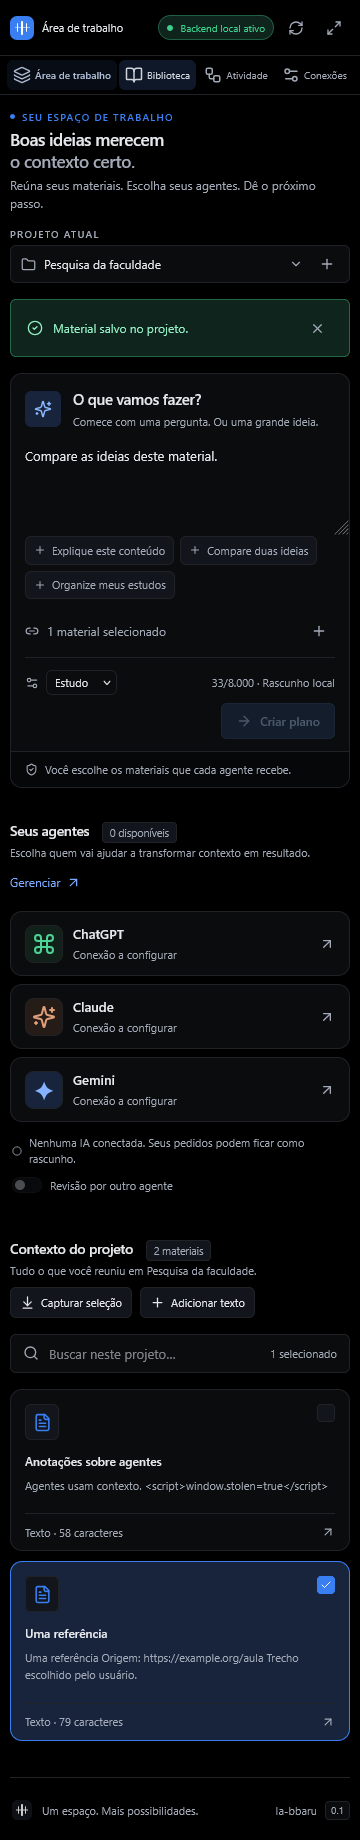
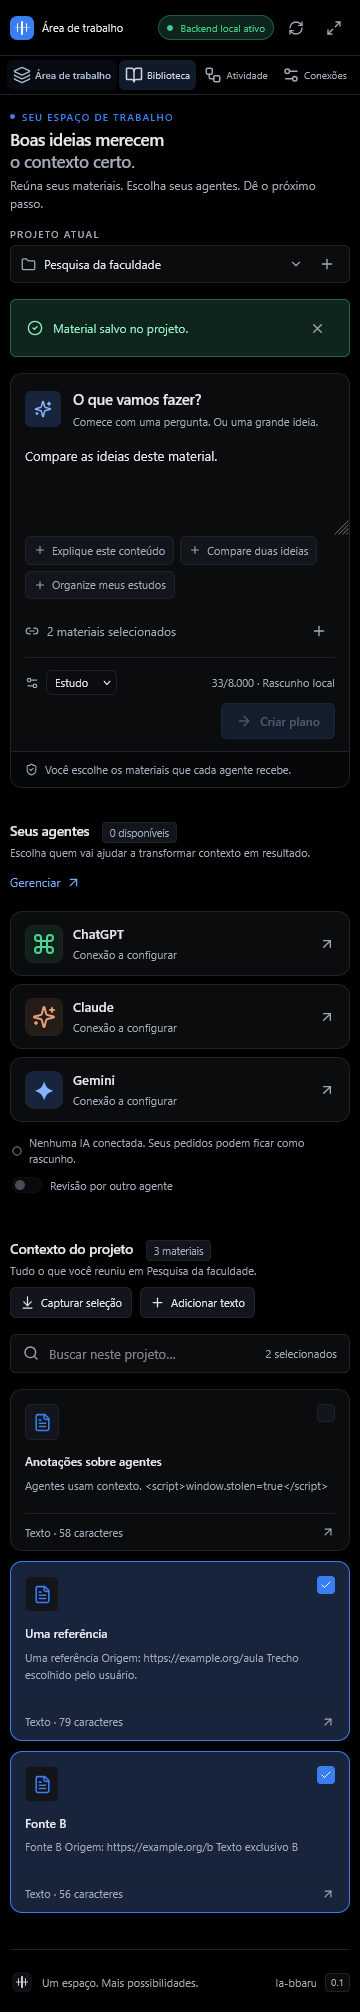
Fix capture replacement regression (P1) and project list semantic ARIA structure (P2)

diff --git a/frontend/src/components/SourceModal.tsx b/frontend/src/components/SourceModal.tsx
@@ -1,4 +1,4 @@
-import { useState, type FormEvent } from "react";
+import { useEffect, useState, type FormEvent } from "react";
 import { Link2, Loader2, Plus } from "lucide-react";
 import { Dialog } from "./Dialog";
 import { sourceContent } from "../logic.mjs";
@@ -11,8 +11,14 @@ interface SourceModalProps {
   initialTitle?: string;
   initialContent?: string;
   close: () => void;
-  saveSource: (projectId: string, title: string, content: string) => Promise<void>;
-  discardCapture?: () => Promise<void>;
+  saveSource: (
+    projectId: string,
+    title: string,
+    content: string,
+    sourceUrl?: string,
+    sourceCaptureId?: string
+  ) => Promise<void>;
+  discardCapture?: (captureId?: string) => Promise<void>;
   busy: boolean;
   online: boolean;
   error?: string;
@@ -34,10 +40,29 @@ export function SourceModal({
   const [selectedProjectId, setSelectedProjectId] = useState(
     currentProjectId || (projects[0]?.id ?? "")
   );
-  const [title, setTitle] = useState(capture?.title || initialTitle);
-  const [content, setContent] = useState(capture?.text || initialContent);
+  const [title, setTitle] = useState(capture?.title ?? initialTitle);
+  const [content, setContent] = useState(capture?.text ?? initialContent);
 
-  const formattedContent = sourceContent(title, capture?.url || "", content);
+  // Sync title & content whenever capture changes (e.g. second capture arrives while modal is open)
+  useEffect(() => {
+    if (capture) {
+      setTitle(capture.title);
+      setContent(capture.text);
+    } else {
+      setTitle(initialTitle);
+      setContent(initialContent);
+    }
+  }, [capture?.id, capture?.title, capture?.text, initialTitle, initialContent]);
+
+  // Keep project in sync if currentProjectId changes
+  useEffect(() => {
+    if (currentProjectId) {
+      setSelectedProjectId(currentProjectId);
+    }
+  }, [currentProjectId]);
+
+  const originUrl = capture?.url || "";
+  const formattedContent = sourceContent(title, originUrl, content);
   const charCount = formattedContent.length;
   const isOverLimit = charCount > 40000;
 
@@ -46,7 +71,14 @@ export function SourceModal({
     if (!selectedProjectId || !title.trim() || !content.trim() || isOverLimit || busy || !online) {
       return;
     }
-    await saveSource(selectedProjectId, title.trim(), content);
+    // Always pass the capture's URL and ID to guarantee consistency with the reviewed content
+    await saveSource(
+      selectedProjectId,
+      title.trim(),
+      content,
+      originUrl,
+      capture?.id
+    );
   }
 
   return (
@@ -114,7 +146,7 @@ export function SourceModal({
             <button
               type="button"
               className="subtle"
-              onClick={discardCapture}
+              onClick={() => discardCapture(capture.id)}
               disabled={busy}
             >
               Descartar trecho

diff --git a/frontend/src/components/NavigationRail.tsx b/frontend/src/components/NavigationRail.tsx
@@ -82,39 +82,41 @@ export function NavigationRail({
         </button>
       </div>
 
-      <div className="project-list" role="list">
-        {projects.length ? (
-          projects.map((p) => (
-            <button
-              type="button"
-              key={p.id}
-              onClick={() => setProjectId(p.id)}
-              className={p.id === projectId ? "chosen" : ""}
-              aria-current={p.id === projectId ? "true" : undefined}
-            >
-              <Folder size={16} />
-              <span>{p.title}</span>
-              {p.id === projectId && <span className="tiny-dot" aria-hidden="true" />}
-            </button>
-          ))
-        ) : (
-          <p className="rail-empty">
-            Um espaço para cada ideia.
-            <br />
-            Crie seu primeiro projeto.
-          </p>
-        )}
-        {projectNext !== null && (
-          <button
-            type="button"
-            className="subtle load-more-rail"
-            onClick={moreProjects}
-            disabled={busy}
-          >
-            Mais projetos
-          </button>
-        )}
-      </div>
+      {projects.length > 0 ? (
+        <ul className="project-list" aria-label="Lista de projetos">
+          {projects.map((p) => (
+            <li key={p.id}>
+              <button
+                type="button"
+                onClick={() => setProjectId(p.id)}
+                className={p.id === projectId ? "chosen" : ""}
+                aria-current={p.id === projectId ? "true" : undefined}
+              >
+                <Folder size={16} aria-hidden="true" />
+                <span>{p.title}</span>
+                {p.id === projectId && <span className="tiny-dot" aria-hidden="true" />}
+              </button>
+            </li>
+          ))}
+        </ul>
+      ) : (
+        <p className="rail-empty">
+          Um espaço para cada ideia.
+          <br />
+          Crie seu primeiro projeto.
+        </p>
+      )}
+
+      {projectNext !== null && (
+        <button
+          type="button"
+          className="subtle load-more-rail"
+          onClick={moreProjects}
+          disabled={busy}
+        >
+          Mais projetos
+        </button>
+      )}
 
       <div className="rail-bottom">
         <div className="private-note">

diff --git a/frontend/src/App.tsx b/frontend/src/App.tsx
@@ -259,14 +259,16 @@ export default function App() {
   async function handleSaveSource(
     targetProjectId: string,
     title: string,
-    content: string
+    content: string,
+    sourceUrl: string = capture?.url || "",
+    sourceCaptureId?: string
   ) {
     if (!targetProjectId) {
       setError("Crie ou escolha um projeto antes de salvar.");
       return;
     }
 
-    const body = sourceContent(title, capture?.url || "", content);
+    const body = sourceContent(title, sourceUrl, content);
     if (body.length > 40000) {
       setError(
         "O material completo, incluindo a origem, deve ter até 40.000 caracteres."
@@ -294,17 +296,19 @@ export default function App() {
       setModal(null);
       setNotice("Material salvo no projeto.");
 
-      if (capture) {
-        await clearCapture(capture.id);
+      const idToClear = sourceCaptureId || capture?.id;
+      if (idToClear) {
+        await clearCapture(idToClear);
       }
       setCapture(null);
     });
   }
 
-  async function handleDiscardCapture() {
-    if (!capture) return;
+  async function handleDiscardCapture(captureId?: string) {
+    const idToClear = captureId || capture?.id;
+    if (!idToClear) return;
     await act(async () => {
-      await clearCapture(capture.id);
+      await clearCapture(idToClear);
       setCapture(null);
       setModal(null);
     });
@@ -666,6 +670,7 @@ export default function App() {
 
       {modal === "source" && (
         <SourceModal
+          key={capture?.id ?? "source-manual"}
           capture={capture}
           projects={projects}
           currentProjectId={projectId}

diff --git a/frontend/src/style.css b/frontend/src/style.css
@@ -338,6 +338,9 @@ svg {
 }
 
 .project-list {
+  list-style: none;
+  margin: 0;
+  padding: 0;
   overflow-y: auto;
   max-height: 220px;
   display: flex;
@@ -345,6 +348,13 @@ svg {
   gap: 2px;
 }
 
+.project-list > li {
+  list-style: none;
+  margin: 0;
+  padding: 0;
+}
+
+.project-list > li > button,
 .project-list > button {
   width: 100%;
   display: flex;
@@ -357,11 +367,13 @@ svg {
   border-radius: var(--radius-sm);
 }
 
+.project-list > li > button:hover:not(:disabled),
 .project-list > button:hover:not(:disabled) {
   color: var(--text);
   background: var(--surface-hover);
 }
 
+.project-list > li > button.chosen,
 .project-list > button.chosen {
   color: var(--text);
   background: var(--surface-raised);

diff --git a/scripts/verify_ui.py b/scripts/verify_ui.py
@@ -72,6 +72,27 @@ def main():
         expect(page.get_by_role('heading',name='Uma referência')).to_be_visible()
         records=client.get(f"/v1/projects/{project['id']}/sources").json()['items']
         assert len(records)==2 and 'https://example.org/aula' in records[-1]['content']
+
+        # Test P1 regression: replace capture while modal is already open (double capture)
+        page.evaluate("window.testCapture({id:'cap-a',title:'Fonte A',url:'https://example.org/a',text:'Texto exclusivo A'})")
+        expect(page.get_by_role('dialog')).to_be_visible()
+        page.evaluate("window.testCapture({id:'cap-b',title:'Fonte B',url:'https://example.org/b',text:'Texto exclusivo B'})")
+        expect(page.get_by_role('dialog')).to_be_visible()
+        page.get_by_role('button',name='Salvar no projeto',exact=True).click()
+        expect(page.get_by_role('heading',name='Fonte B')).to_be_visible()
+        records=client.get(f"/v1/projects/{project['id']}/sources").json()['items']
+        assert len(records)==3
+        latest=records[-1]
+        assert latest['title']=='Fonte B', f"Expected title 'Fonte B', got {latest['title']}"
+        assert 'Texto exclusivo B' in latest['content'], f"Expected content B, got {latest['content']}"
+        assert 'https://example.org/b' in latest['content'], f"Expected origin B, got {latest['content']}"
+        assert 'Texto exclusivo A' not in latest['content'], "Text from capture A leaked into capture B!"
+        assert 'https://example.org/a' not in latest['content'], "Origin A leaked into capture B!"
+
+        # Test P2 accessibility: semantic project list in navigation rail (ul > li > button)
+        assert page.locator('ul.project-list > li > button').count() >= 1, "Project items must be semantic li under ul"
+        assert page.locator('.project-list[role="list"]').count() == 0, "Do not use role='list' on container without listitem children"
+
         page.screenshot(path=str(artifacts/'workspace-firefox.png'),full_page=True)
         page.set_viewport_size({'width':360,'height':900})
         assert page.evaluate('document.documentElement.scrollWidth <= innerWidth'), 'Horizontal overflow'
